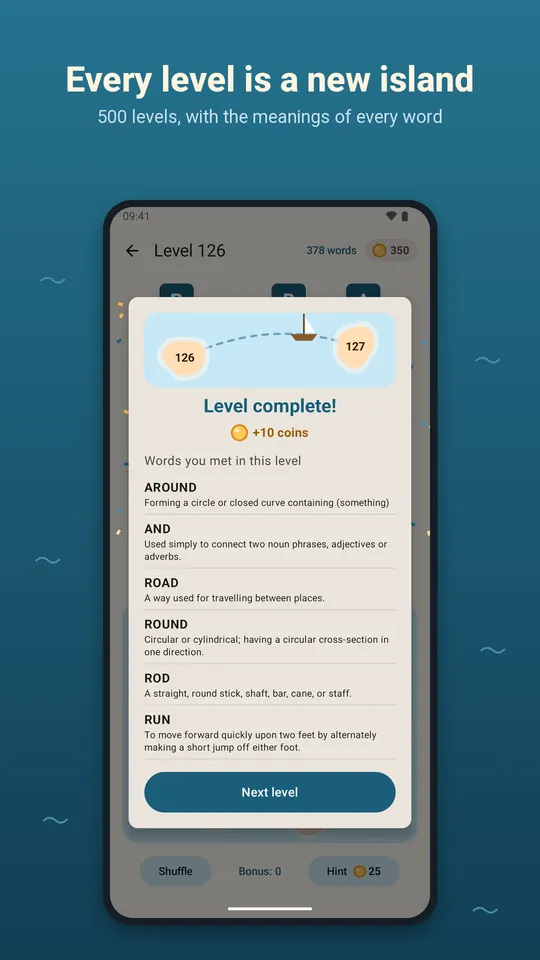
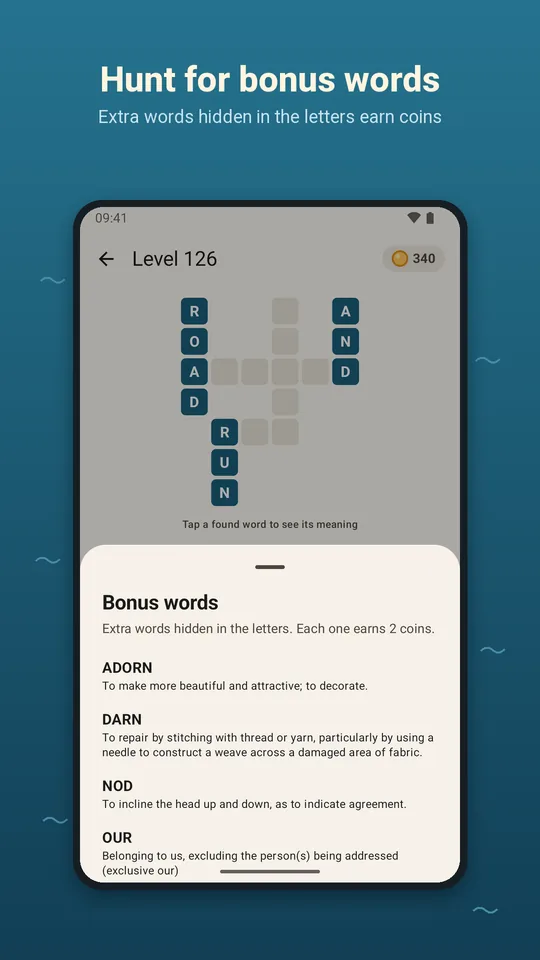
Mağaza görselleri InfiDoc düzeninde, kelime bulma anlatımıyla
- Özellik grafiği: marka zemini, üç özellik satırı, sağda gerçek oyun ekranı (Chrome headless)
- Ekran çekimi her emülatörde: seri SER'den (yalnız emulator-*), ada ve ızgara koordinatları
  tahtanın sınırından/bölüm paketinden hesaplanır; BOYUT ile 9:16 (Play 2:1 üstünü reddeder)
- Yeni sahneler: bonus kelimeler, 7 harfli ileri bölüm (ipucuyla), öbür dilde bulmaca
- export_store_assets: telefon 1080x1920, 7" 1215x2160, 10" 1440x2560 + özellik grafiği Masaüstüne,
  9:16 denetimiyle; make_listing_csv ve make_site_images tekrar üretilebilir
- Mağaza metni, Play içe aktarma CSV'si, site ana sayfası, gizlilik ve şartlar yeni konuma göre

diff --git a/index.html b/index.html
@@ -4,14 +4,14 @@
   <meta charset="utf-8">
   <meta name="viewport" content="width=device-width, initial-scale=1">
   <title>Wordvoya — Kelime Bulmacası</title>
-  <meta name="description" content="Harf adalarını birleştir, çapraz bulmacayı çöz, her kelimenin anlamını öğren. Kelime Defteri, aralıklı tekrar ve 500 bölümlük yolculuk.">
+  <meta name="description" content="Harf adalarını birleştir, çapraz bulmacadaki kelimeleri bul, bonus kelimeleri avla. 500 bölümlük bir ada yolculuğu.">
   <link rel="canonical" href="https://wordvoya.com/">
   <link rel="alternate" hreflang="tr" href="https://wordvoya.com/">
   <link rel="alternate" hreflang="en" href="https://wordvoya.com/en/">
   <link rel="alternate" hreflang="x-default" href="https://wordvoya.com/en/">
   <meta property="og:type" content="website">
   <meta property="og:title" content="Wordvoya — Kelime Bulmacası">
-  <meta property="og:description" content="Harf adalarını birleştir, bulmacayı çöz, her kelimenin anlamını öğren.">
+  <meta property="og:description" content="Harf adalarını birleştir, kelimeleri bul, 500 bölümlük yolculuğa çık.">
   <meta property="og:url" content="https://wordvoya.com/">
   <meta property="og:image" content="https://wordvoya.com/img/og-tr.jpg">
   <meta name="theme-color" content="#1B5E7A">
@@ -40,7 +40,7 @@
           <h1>Wordvoya</h1>
           <p class="sub">Kelime Bulmacası</p>
           <p>Harfler denizdeki adalarda seni bekliyor. Parmağını adadan adaya kaydır, rotan bir kelime
-            yazsın ve çapraz bulmacaya yerleşsin. Her bölüm yeni bir ada, her kelime yeni bir anlam.</p>
+            yazsın ve çapraz bulmacaya yerleşsin. Her bölüm yeni bir ada, her ada yeni kelimeler.</p>
           <span class="badge soon">Yakında Google Play'de</span>
         </div>
         <img class="shot" src="/img/ekran-tr-1.webp" alt="Harf adalarını kaydırarak TEKRAR kelimesini kurmak" width="540" height="960">
@@ -49,13 +49,13 @@
 
     <section class="features" id="ozellikler">
       <div class="wrap">
-        <h2>Vakit geçirirken gerçekten bir şey kazan</h2>
+        <h2>Adadan adaya bir kelime avı</h2>
         <div class="grid">
-          <div class="card"><div class="dot">A</div><h3>Her kelimenin anlamı</h3><p>Bulduğun kelimeye dokun, anlamı hemen açılsın. Anlamlar tek tek elle gözden geçirildi.</p></div>
-          <div class="card"><div class="dot">D</div><h3>Kelime Defteri</h3><p>Karşılaştığın bütün kelimeler anlamlarıyla birikir; ara, zayıf olanlara geri dön.</p></div>
-          <div class="card"><div class="dot">T</div><h3>Aralıklı tekrar</h3><p>Kelimeler unutmaya başladığın anda karşına çıkar; hafızan her tekrarda güçlenir.</p></div>
-          <div class="card"><div class="dot">500</div><h3>Yolculuk haritası</h3><p>Liman'dan Ufuk'a on durak, 500 bölüm. Zorluk sen ilerledikçe artar.</p></div>
-          <div class="card"><div class="dot">EN</div><h3>İngilizce öğren</h3><p>İngilizce bulmacada her kelimenin Türkçesi de yanında; oynarken kelime dağarcığın büyür.</p></div>
+          <div class="card"><div class="dot">~</div><h3>Harf adaları</h3><p>Harfler çemberde değil, denizdeki adalarda. Parmağını kaydır, rotan kelimeyi yazsın.</p></div>
+          <div class="card"><div class="dot">500</div><h3>Yolculuk haritası</h3><p>Liman'dan Ufuk'a on durak, 500 bölüm. Dört harfle başla, yedi harfe ve büyük ızgaralara ulaş.</p></div>
+          <div class="card"><div class="dot">★</div><h3>Bonus kelimeler</h3><p>Harflerde saklı fazladan kelimeleri bul, jeton kazan; takıldığında ipucuyla bir harf aç.</p></div>
+          <div class="card"><div class="dot">A</div><h3>Merak ettiğin kelime</h3><p>Bulduğun kelimeye dokun, anlamı açılsın. Bulmacadaki her kelime elle incelendi.</p></div>
+          <div class="card"><div class="dot">EN</div><h3>Türkçe ve İngilizce</h3><p>İstersen İngilizce kelimelerle oyna; ilerleme her dil için ayrı tutulur.</p></div>
           <div class="card"><div class="dot">✓</div><h3>İnternetsiz, hesapsız</h3><p>Oyun internetsiz çalışır, kayıt istemez. İlerlemen yalnızca cihazında kalır.</p></div>
         </div>
       </div>
@@ -66,9 +66,9 @@
         <h2>Oyundan kareler</h2>
         <div class="row">
           <img src="/img/ekran-tr-1.webp" alt="Harf adalarını birleştir" width="540" height="960" loading="lazy">
-          <img src="/img/ekran-tr-2.webp" alt="Her kelimenin anlamı yanında" width="540" height="960" loading="lazy">
-          <img src="/img/ekran-tr-3.webp" alt="İngilizce öğren: kelimenin Türkçesi" width="540" height="960" loading="lazy">
-          <img src="/img/ekran-tr-4.webp" alt="Kelime Defteri süzgeçleriyle" width="540" height="960" loading="lazy">
+          <img src="/img/ekran-tr-2.webp" alt="Bölüm tamam: jeton ve günlük hedef" width="540" height="960" loading="lazy">
+          <img src="/img/ekran-tr-3.webp" alt="Bonus kelimeler" width="540" height="960" loading="lazy">
+          <img src="/img/ekran-tr-4.webp" alt="Yedi harfli büyük bir bulmaca" width="540" height="960" loading="lazy">
         </div>
       </div>
     </section>

diff --git a/en/index.html b/en/index.html
@@ -4,14 +4,14 @@
   <meta charset="utf-8">
   <meta name="viewport" content="width=device-width, initial-scale=1">
   <title>Wordvoya — Word Puzzle</title>
-  <meta name="description" content="Connect letter islands, solve crosswords and learn what every word means. Word Notebook, spaced review and a 500-level voyage.">
+  <meta name="description" content="Connect letter islands, find the words in the crossword and hunt for bonus words. A 500-level island voyage.">
   <link rel="canonical" href="https://wordvoya.com/en/">
   <link rel="alternate" hreflang="tr" href="https://wordvoya.com/">
   <link rel="alternate" hreflang="en" href="https://wordvoya.com/en/">
   <link rel="alternate" hreflang="x-default" href="https://wordvoya.com/en/">
   <meta property="og:type" content="website">
   <meta property="og:title" content="Wordvoya — Word Puzzle">
-  <meta property="og:description" content="Connect letter islands, solve crosswords and learn what every word means.">
+  <meta property="og:description" content="Connect letter islands, find the words and sail through 500 levels.">
   <meta property="og:url" content="https://wordvoya.com/en/">
   <meta property="og:image" content="https://wordvoya.com/img/og-en.jpg">
   <meta name="theme-color" content="#1B5E7A">
@@ -40,7 +40,7 @@
           <h1>Wordvoya</h1>
           <p class="sub">Word Puzzle</p>
           <p>Letters wait on islands in the sea. Slide your finger from island to island: your route spells a word
-            and fills the crossword. Every level is a new island, every word a new meaning.</p>
+            and fills the crossword. Every level is a new island with new words to find.</p>
           <span class="badge soon">Coming soon to Google Play</span>
         </div>
         <img class="shot" src="/img/ekran-en-1.webp" alt="Sliding across letter islands to spell AROUND" width="540" height="960">
@@ -49,13 +49,13 @@
 
     <section class="features" id="features">
       <div class="wrap">
-        <h2>A game that leaves you with something real</h2>
+        <h2>A word hunt from island to island</h2>
         <div class="grid">
-          <div class="card"><div class="dot">A</div><h3>Every word has a meaning</h3><p>Tap a word you found to see what it means. Every puzzle word was reviewed by hand.</p></div>
-          <div class="card"><div class="dot">N</div><h3>Word Notebook</h3><p>Every word you meet is saved with its meaning; search it and go back to the weak ones.</p></div>
-          <div class="card"><div class="dot">R</div><h3>Spaced review</h3><p>Words come back just as you start to forget them, so they stick.</p></div>
-          <div class="card"><div class="dot">500</div><h3>Voyage map</h3><p>Ten stops from the Harbour to the Horizon across 500 levels, getting harder as you go.</p></div>
-          <div class="card"><div class="dot">TR</div><h3>Learn Turkish too</h3><p>Turkish puzzles show every word in English, so you pick up words while you play.</p></div>
+          <div class="card"><div class="dot">~</div><h3>Letter islands</h3><p>No wheel: the letters sit on islands in the sea. Slide your finger and your route spells the word.</p></div>
+          <div class="card"><div class="dot">500</div><h3>Voyage map</h3><p>Ten stops from the Harbour to the Horizon across 500 levels. Start with four letters, work up to seven.</p></div>
+          <div class="card"><div class="dot">★</div><h3>Bonus words</h3><p>Find the extra words hidden in the letters to earn coins, and reveal a letter with a hint when you're stuck.</p></div>
+          <div class="card"><div class="dot">A</div><h3>Curious about a word?</h3><p>Tap a word you found to see its meaning. Every puzzle word was checked by hand.</p></div>
+          <div class="card"><div class="dot">TR</div><h3>English and Turkish</h3><p>Play with Turkish words whenever you like; progress is kept separately for each language.</p></div>
           <div class="card"><div class="dot">✓</div><h3>Offline, no account</h3><p>The game works offline and needs no sign-up. Your progress stays on your device.</p></div>
         </div>
       </div>
@@ -66,9 +66,9 @@
         <h2>Screenshots</h2>
         <div class="row">
           <img src="/img/ekran-en-1.webp" alt="Connect the letter islands" width="540" height="960" loading="lazy">
-          <img src="/img/ekran-en-2.webp" alt="Every word has a meaning" width="540" height="960" loading="lazy">
-          <img src="/img/ekran-en-3.webp" alt="Level complete with the meanings of every word" width="540" height="960" loading="lazy">
-          <img src="/img/ekran-en-4.webp" alt="Word Notebook with filters" width="540" height="960" loading="lazy">
+          <img src="/img/ekran-en-2.webp" alt="Level complete: coins and daily goal" width="540" height="960" loading="lazy">
+          <img src="/img/ekran-en-3.webp" alt="Bonus words" width="540" height="960" loading="lazy">
+          <img src="/img/ekran-en-4.webp" alt="A bigger seven-letter puzzle" width="540" height="960" loading="lazy">
         </div>
       </div>
     </section>

diff --git a/gizlilik.html b/gizlilik.html
@@ -40,8 +40,8 @@
       <ul>
         <li><strong>Hesap yok:</strong> Uygulama kayıt ya da giriş istemez; adınızı, e-posta adresinizi veya başka bir
           kimlik bilginizi almaz.</li>
-        <li><strong>Cihazdaki oyun verileri:</strong> Bölüm ilerlemesi, bulduğunuz kelimeler, Kelime Defteri, tekrar
-          takvimi, günlük seri, jetonlar ve ayarlar yalnızca cihazınızda saklanır; bize gönderilmez.</li>
+        <li><strong>Cihazdaki oyun verileri:</strong> Bölüm ilerlemesi, bulduğunuz kelimeler, günlük seri ve hedef,
+          jetonlar ve ayarlar yalnızca cihazınızda saklanır; bize gönderilmez.</li>
         <li><strong>Reklamlar (Google AdMob):</strong> Reklamları göstermek, ölçmek ve sahtekarlığı önlemek için Google;
           cihazınızın reklam kimliğini, IP adresini (yaklaşık konum), cihaz ve uygulama bilgilerini ve reklamlarla
           etkileşimlerinizi işleyebilir. Bu veriler doğrudan Google'a gider; bizim erişimimiz yoktur.</li>
@@ -62,8 +62,8 @@
       </ul>
 
       <h2>Verilerin Kullanımı</h2>
-      <p>Cihazdaki veriler yalnızca oyunun çalışması için kullanılır: kaldığınız bölümü açmak, öğrendiğiniz kelimeleri
-        deftere eklemek ve tekrar zamanı gelen kelimeleri size sormak. Bu veriler bize ya da üçüncü taraflara gönderilmez
+      <p>Cihazdaki veriler yalnızca oyunun çalışması için kullanılır: kaldığınız bölümü ve bulduğunuz kelimeleri
+        hatırlamak, seriyi ve günlük hedefi saymak. Bu veriler bize ya da üçüncü taraflara gönderilmez
         ve satılmaz. Reklam verileri Google tarafından yukarıda anlatılan amaçlarla işlenir.</p>
 
       <h2>Üçüncü Taraf Hizmetler</h2>

diff --git a/en/privacy.html b/en/privacy.html
@@ -39,8 +39,8 @@
       <ul>
         <li><strong>No account:</strong> The app does not ask you to sign up or sign in, and it does not receive your
           name, email address or any other identifier.</li>
-        <li><strong>Game data on your device:</strong> Level progress, found words, the Word Notebook, the review
-          schedule, the daily streak, coins and settings are stored only on your device and are not sent to us.</li>
+        <li><strong>Game data on your device:</strong> Level progress, found words, the daily streak and goal, coins
+          and settings are stored only on your device and are not sent to us.</li>
         <li><strong>Ads (Google AdMob):</strong> To serve and measure ads and to prevent fraud, Google may process your
           device's advertising ID, IP address (approximate location), device and app information, and your interactions
           with ads. This data goes directly to Google; we have no access to it.</li>
@@ -61,8 +61,8 @@
       </ul>
 
       <h2>How the Data Is Used</h2>
-      <p>The data on your device is used only to run the game: to open your current level, add the words you learn to
-        your notebook and ask you the words that are due for review. It is never sent to us or to third parties and is
+      <p>The data on your device is used only to run the game: to remember your current level and the words you found,
+        and to count your streak and daily goal. It is never sent to us or to third parties and is
         never sold. Ad data is processed by Google for the purposes described above.</p>
 
       <h2>Third-Party Services</h2>

diff --git a/kullanim-sartlari.html b/kullanim-sartlari.html
@@ -39,7 +39,7 @@
 
       <h2>Kelime İçeriği ve Kaynaklar</h2>
       <ul>
-        <li>Kelime anlamları ve karşılıkları, <a href="https://tr.wiktionary.org/">Vikisözlük</a> (Türkçe ve İngilizce)
+        <li>Kelime anlamları, <a href="https://tr.wiktionary.org/">Vikisözlük</a> (Türkçe ve İngilizce)
           katkıcılarının çalışmasından <a href="https://kaikki.org/">kaikki.org</a> çıkarımı aracılığıyla uyarlanmıştır.</li>
         <li>Kelime sıklıkları <a href="https://github.com/hermitdave/FrequencyWords">FrequencyWords</a>
           (OpenSubtitles 2018) listesinden alınmıştır.</li>
@@ -47,7 +47,7 @@
           <a href="https://creativecommons.org/licenses/by-sa/4.0/deed.tr">CC BY-SA 4.0</a> lisansıyla sunulur.
           Uygulamanın kodu, tasarımı ve Wordvoya adı bu lisansa tabi değildir.</li>
         <li>Anlamlar tek tek gözden geçirilmiştir; yine de eksiksiz veya hatasız oldukları garanti edilmez. Uygulama
-          eğlence ve öğrenme amaçlıdır, resmî bir sözlüğün yerine geçmez. Hatalı bir kelime görürseniz bize yazın.</li>
+          eğlence amaçlıdır, resmî bir sözlüğün yerine geçmez. Hatalı bir kelime görürseniz bize yazın.</li>
       </ul>
 
       <h2>Jetonlar</h2>

diff --git a/en/terms.html b/en/terms.html
@@ -38,7 +38,7 @@
 
       <h2>Word Content and Sources</h2>
       <ul>
-        <li>Word meanings and translations are adapted from the work of <a href="https://en.wiktionary.org/">Wiktionary</a>
+        <li>Word meanings are adapted from the work of <a href="https://en.wiktionary.org/">Wiktionary</a>
           (Turkish and English) contributors, via the <a href="https://kaikki.org/">kaikki.org</a> extraction.</li>
         <li>Word frequencies come from the <a href="https://github.com/hermitdave/FrequencyWords">FrequencyWords</a>
           list (OpenSubtitles 2018).</li>
@@ -46,7 +46,7 @@
           <a href="https://creativecommons.org/licenses/by-sa/4.0/">CC BY-SA 4.0</a>. The app's code, design and the
           Wordvoya name are not covered by that license.</li>
         <li>Meanings were reviewed one by one, but they are not guaranteed to be complete or error-free. The app is meant
-          for entertainment and learning and is not a substitute for an official dictionary. If you spot a wrong word,
+          for entertainment and is not a substitute for an official dictionary. If you spot a wrong word,
           please tell us.</li>
       </ul>
 
